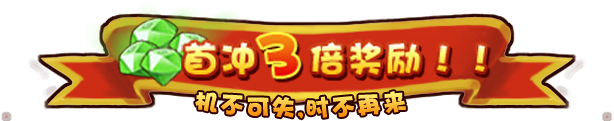
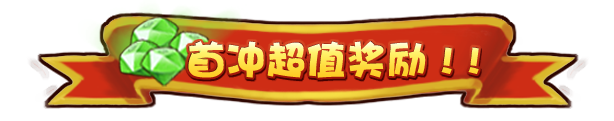
修改加入首充图片

Changed region(s): [[0.0619, 0.0992, 0.9593, 0.9917], [0.9593, 0.9174, 1.0, 1.0], [0.0, 0.9174, 0.0309, 1.0]]

diff --git a/client/cocos2d-x-2.2.1/projects/Magpie/Resources/src/view/mainModule/paymentLayer.js b/client/cocos2d-x-2.2.1/projects/Magpie/Resources/src/view/mainModule/paymentLayer.js
@@ -297,6 +297,11 @@ var PaymentLayer = LazyLayer.extend({
             otherGoldLabel.setPosition(cc.p(320, y + 50));
             scrollViewLayer.addChild(otherGoldLabel);
 
+            var url = (i == 2) ? "icon365" : "icon364";
+            var tipIcon = cc.Sprite.create(main_scene_image[url]);
+            tipIcon.setPosition(cc.p(40,y + 90));
+            scrollViewLayer.addChild(tipIcon);
+
             var paymentItem = cc.MenuItemImage.createWithIcon(
                 main_scene_image.button21,
                 main_scene_image.button21s,

diff --git a/client/cocos2d-x-2.2.1/projects/Magpie/Resources/src/resource.js b/client/cocos2d-x-2.2.1/projects/Magpie/Resources/src/resource.js
@@ -666,6 +666,8 @@ var main_scene_image = {
     icon361: main_scene_path + "icon361.png",
     icon362: main_scene_path + "icon362.png",
     icon363: main_scene_path + "icon363.png",
+    icon364: main_scene_path + "icon364.png",
+    icon365: main_scene_path + "icon365.png",
 
     card30000_head1: main_scene_path + "card30000_head1.png",
     card30000_half1: main_scene_path + "card30000_half1.png",
